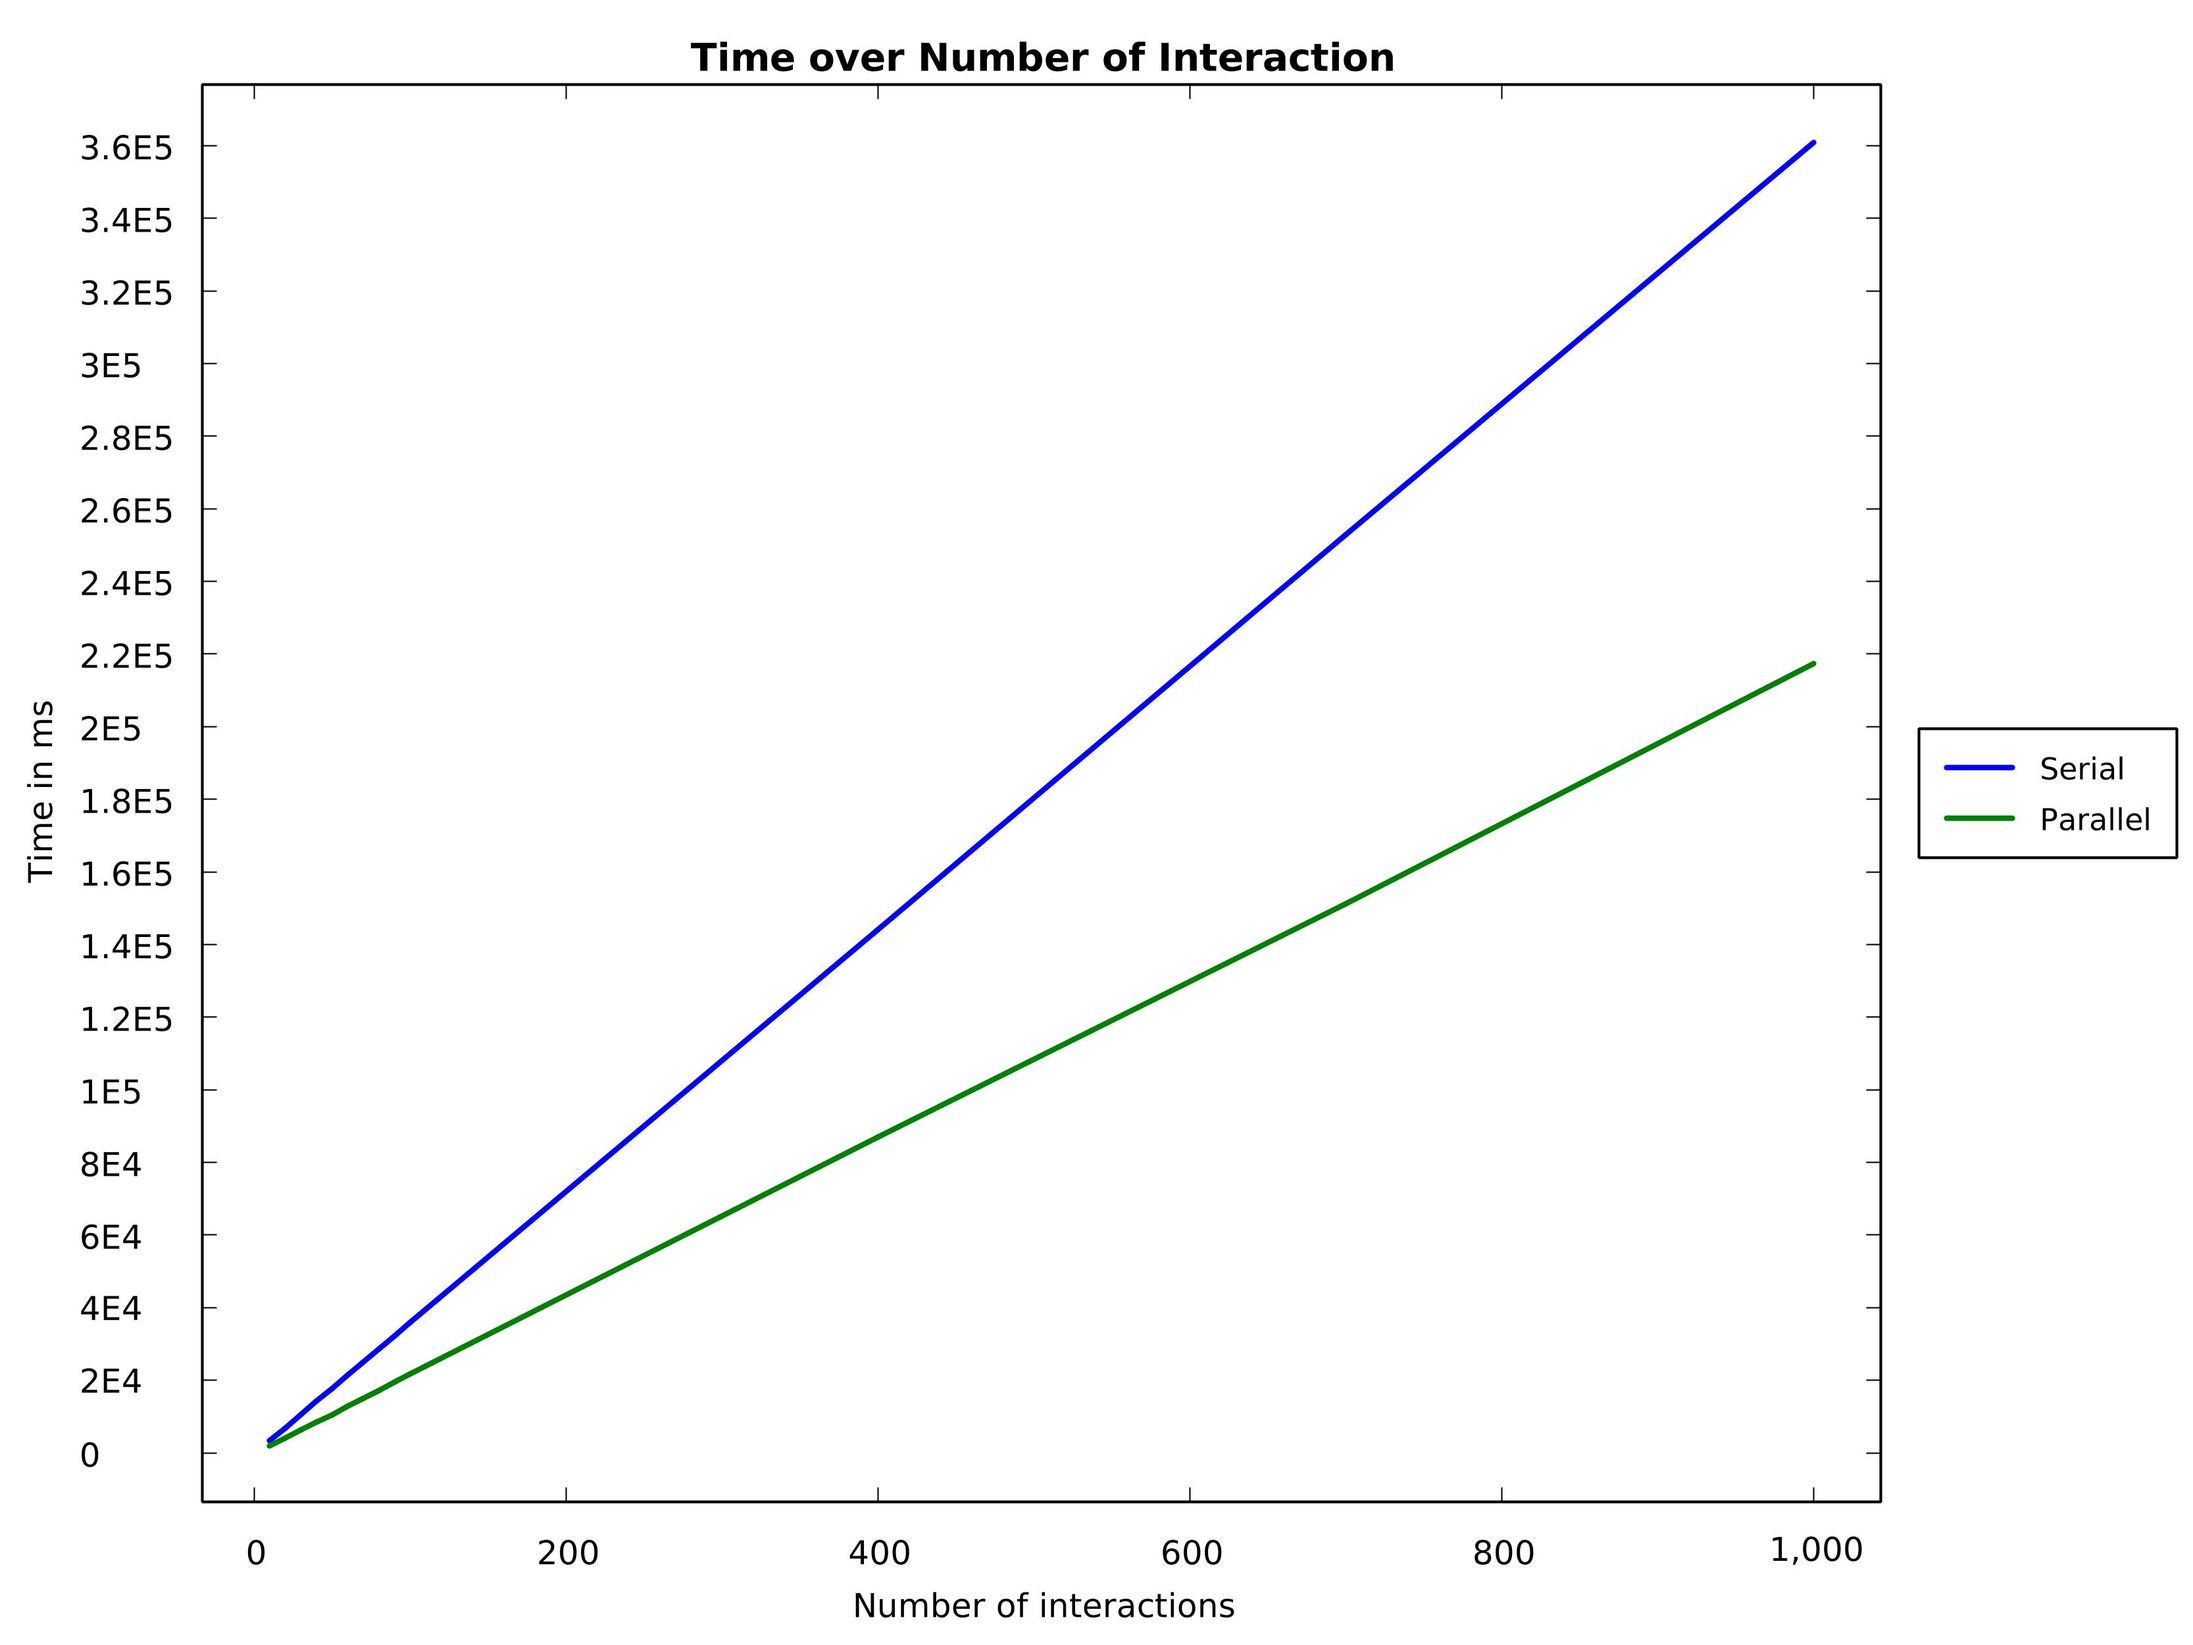
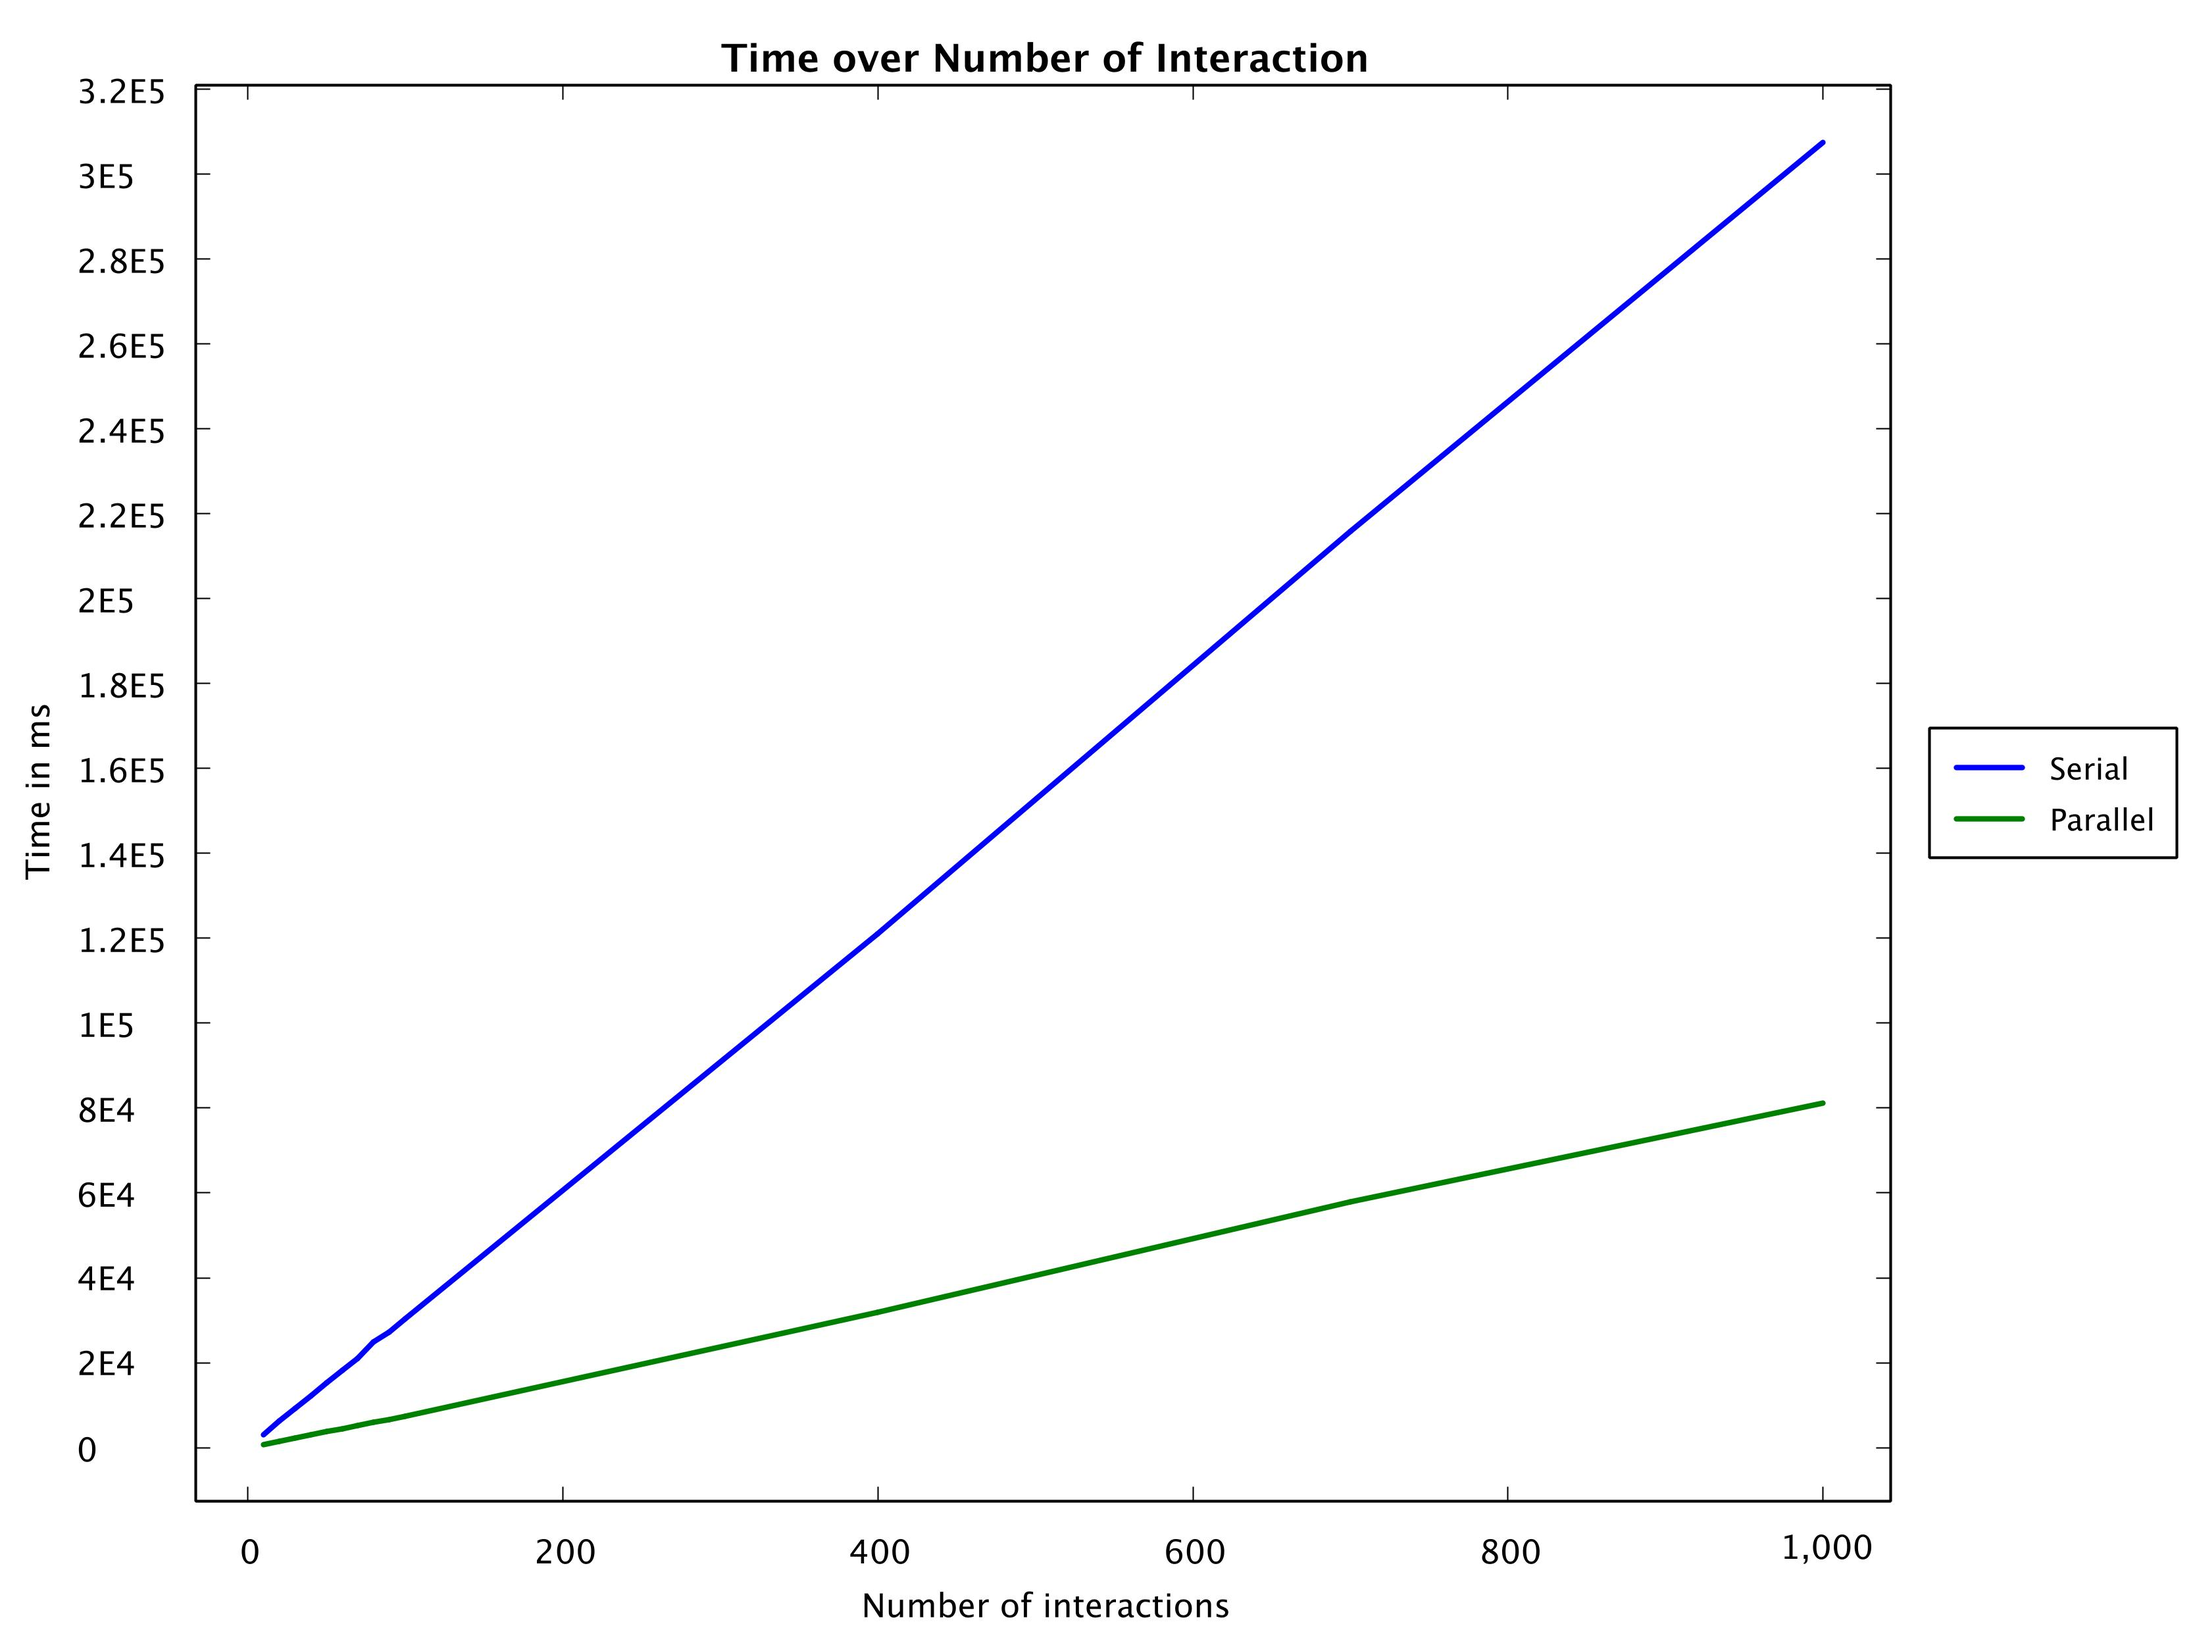
Aggiornati grafici

diff --git a/_5parallel/src/main/java/ParallelKMeans.java b/_5parallel/src/main/java/ParallelKMeans.java
@@ -17,44 +17,45 @@ public class ParallelKMeans {
 
         for (int i = 0; i < interactions; i++) {
             IntStream.range(0, size)
-                    .parallel()
-                    .forEach(index -> {
-                        int nearestCluster = -1;
-                        double min_distance = Double.MAX_VALUE;
-                        for (int i_centroid = 0; i_centroid < number_of_centers; i_centroid++) {
-                            int distance = initial_clusters.get(i_centroid).distance(cities.get(index));
-                            if (distance < min_distance) {
-                                nearestCluster = i_centroid;
-                                min_distance = distance;
-                            }
+                .parallel()
+                .forEach(index -> {
+                    int nearestCluster = -1;
+                    double min_distance = Double.MAX_VALUE;
+                    for (int i_centroid = 0; i_centroid < number_of_centers; i_centroid++) {
+                        int distance = initial_clusters.get(i_centroid).distance(cities.get(index));
+                        if (distance < min_distance) {
+                            nearestCluster = i_centroid;
+                            min_distance = distance;
                         }
-                        cluster_of_city.set(index, nearestCluster);
-                    });
+                    }
+                    cluster_of_city.set(index, nearestCluster);
+                });
 
             IntStream.range(0, number_of_centers)
-                    .parallel()
-                    .forEach(index_of_center -> {
-                        Result r = new ClusterReduce(cluster_of_city, cities, index_of_center, cutoff).invoke();
-                        if (r.size > 0) {
-                            double mid_latitude = r.latitude / r.size;
-                            double mid_longitude = r.longitude / r.size;
-                            initial_clusters.set(index_of_center, new Centroid(mid_latitude, mid_longitude));
-                        }
-                    });
+                .parallel()
+                .forEach(index_of_center -> {
+                    Result r = new ClusterReduce(cluster_of_city, cities, index_of_center, cutoff).invoke();
+                    if (r.size > 0) {
+                        double mid_latitude = r.latitude / r.size;
+                        double mid_longitude = r.longitude / r.size;
+                        initial_clusters.set(index_of_center, new Centroid(mid_latitude, mid_longitude));
+                    }
+                });
         }
 
-        Set<Cluster> clustering = new HashSet<>(number_of_centers);
+        Set<Cluster> clusters = new HashSet<>(number_of_centers);
 
         IntStream.range(0, number_of_centers)
-                .forEach(index_of_cluster -> {
-                    List<City> cluster = IntStream.range(0, size)
-                            .filter(idx -> cluster_of_city.get(idx) == index_of_cluster)
-                            .mapToObj(cities::get)
-                            .collect(Collectors.toList());
-                    if (cluster.size() > 0)
-                        clustering.add(new Cluster(cluster));
-                });
-        return clustering;
+            .parallel()
+            .forEach(index_of_cluster -> {
+                List<City> cluster = IntStream.range(0, size)
+                        .filter(idx -> cluster_of_city.get(idx) == index_of_cluster)
+                        .mapToObj(cities::get)
+                        .collect(Collectors.toList());
+                if (cluster.size() > 0)
+                    clusters.add(new Cluster(cluster));
+            });
+        return clusters;
     }
 
     static Result sequentialReduceCluster(List<Integer> cluster_of_cities, List<City> cities, int h) {

diff --git a/_5parallel/src/main/java/Main.java b/_5parallel/src/main/java/Main.java
@@ -2,7 +2,9 @@ import org.knowm.xchart.BitmapEncoder;
 import org.knowm.xchart.XYChart;
 import org.knowm.xchart.demo.charts.ExampleChart;
 
+import java.io.File;
 import java.io.IOException;
+import java.io.PrintWriter;
 import java.util.ArrayList;
 import java.util.Arrays;
 import java.util.List;
@@ -15,11 +17,9 @@ public class Main {
     public static void main(String[] args) {
         List<City> cities_original = new ArrayList<>(Parser.get("cities-and-towns-of-usa"));
 
-        System.out.println(get_time(() ->ParallelKMeans.run(cities_original, 99, 100, 1)));
-        System.out.println(get_time(() ->ParallelKMeans.run(cities_original, 50, 100, 100_000)));
-        System.out.println(get_time(() ->SerialKMeans.run(cities_original, 50, 100)));
-
-        /*
+        // System.out.println(get_time(() ->ParallelKMeans.run(cities_original, 99, 100, 1)));
+        // System.out.println(get_time(() ->ParallelKMeans.run(cities_original, 50, 100, 100_000)));
+        // System.out.println(get_time(() ->SerialKMeans.run(cities_original, 50, 100)));
 
         // ANSWER 1
         {
@@ -27,13 +27,13 @@ public class Main {
             List<Double> serial_values = new ArrayList<>();
             List<Double> parallel_values = new ArrayList<>();
 
-            List<Integer> filters = Arrays.asList(100_000, 50_000, 15_000, 5_000, 2_000, 250, Integer.MIN_VALUE);
+            List<Integer> filters = Arrays.asList(100_000, 50_000, 15_000, 5_000, 2_000, 250, -1);
 
             filters.forEach(filter -> {
                 List<City> cities = cities_original.stream()
                         .filter(c -> c.getPopulation() > filter)
                         .collect(Collectors.toList());
-                System.out.println("Doing " + filter + " Size is " + cities.size());
+                System.out.println(cities.size() + " cities with more than " + filter + " population");
 
                 populations.add((double) cities.size());
                 serial_values.add(get_time(() -> SerialKMeans.run(cities, 50, 100)));
@@ -109,7 +109,7 @@ public class Main {
             List<Graph1.Serie> series = new ArrayList<>();
             series.add(new Graph1.Serie("Parallel", parallel_values));
             export_chart("Chart_4", labels, cutoffs, series, true);
-        }*/
+        }
     }
 
     private static double get_time(Supplier<Set<Cluster>> f) {
